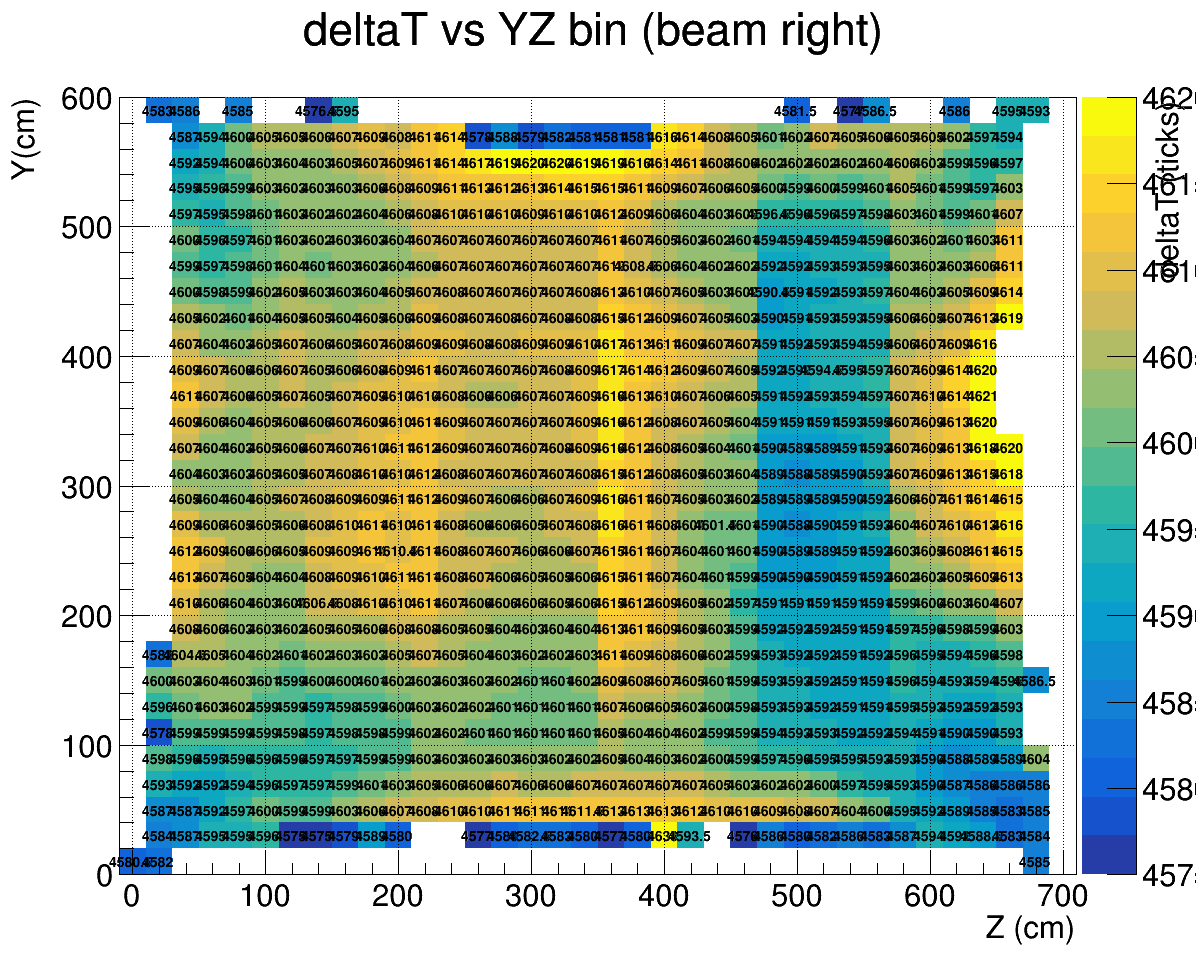
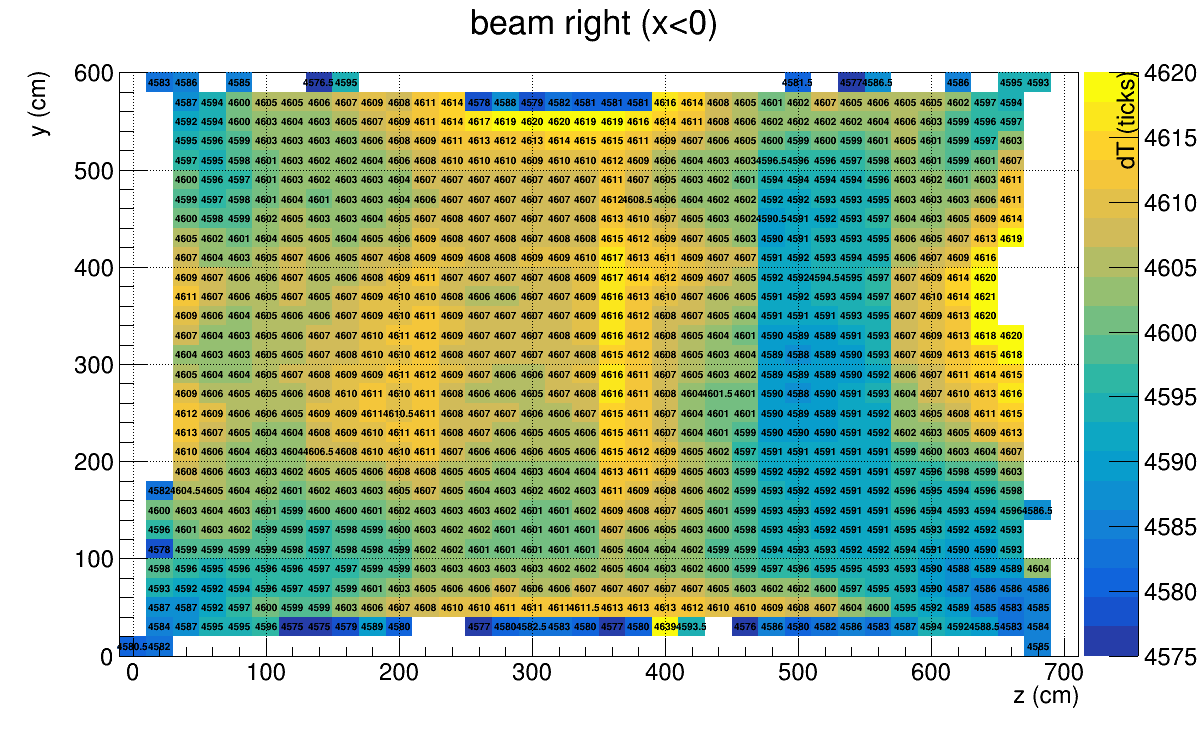
update plots

diff --git a/scripts/frame_distortion/writeup/get_2D_with_bdry.C b/scripts/frame_distortion/writeup/get_2D_with_bdry.C
@@ -1,7 +1,6 @@
 
 void get_2D_with_bdry()
 {
-    gROOT->SetBatch(kTRUE);
     string INPUT_FILE = "ALLEVENTS_without_thermal_unordered_dT.root";
     string PATH = "/dune/app/users/tianlel/protoDUNE/E_field/ProtoDUNE_EfieldCalibration/output_ROOTtree/reco/frame_distortion/";
     string OUTPUT_PATH = "/dune/app/users/tianlel/protoDUNE/E_field/ProtoDUNE_EfieldCalibration/plots/";
@@ -20,17 +19,19 @@ void get_2D_with_bdry()
     f->GetObject("deltaT_YZ_h2_err0_neg", deltaT_YZ_h2_neg);
 
     TCanvas *c1 = new TCanvas("c1", "c1", 1200, 1000);
-    deltaT_YZ_h2->SetMarkerSize(0.8);
+    deltaT_YZ_h2->SetMarkerSize(0.7);
+    deltaT_YZ_h2->SetTitle("beam left (x>0);z (cm);y (cm); dT (ticks)");
     deltaT_YZ_h2->Draw("COLZ TEXT");
-    deltaT_YZ_h2->GetZaxis()->SetTitleOffset(0.5);
+    deltaT_YZ_h2->GetZaxis()->SetTitleOffset(0);
     deltaT_YZ_h2->GetZaxis()->SetRangeUser(4575,4620);
     c1->SaveAs("p03_2D_dT_med_full.png");
 
     TCanvas *c2 = new TCanvas("c2", "c2", 1200, 1000);
-    deltaT_YZ_h2_neg->SetMarkerSize(0.8);
+    deltaT_YZ_h2_neg->SetMarkerSize(0.7);
+    deltaT_YZ_h2_neg->SetTitle("beam right (x<0) ;z (cm);y (cm); dT (ticks)");
     deltaT_YZ_h2_neg->Draw("COLZ TEXT");
     deltaT_YZ_h2_neg->GetZaxis()->SetRangeUser(4575,4620);
-    deltaT_YZ_h2_neg->GetZaxis()->SetTitleOffset(0.5);
+    deltaT_YZ_h2_neg->GetZaxis()->SetTitleOffset(0);
     c2->SaveAs("p04_2D_dT_med_full_neg.png");
 
 }
